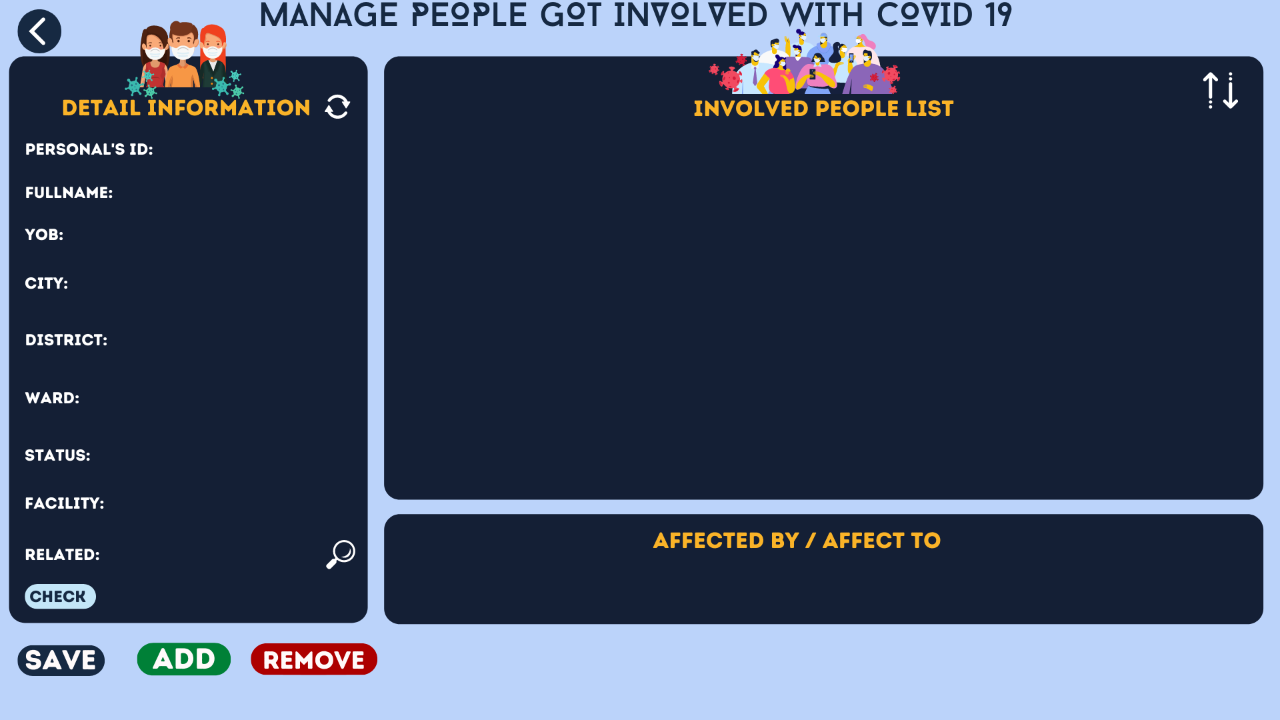
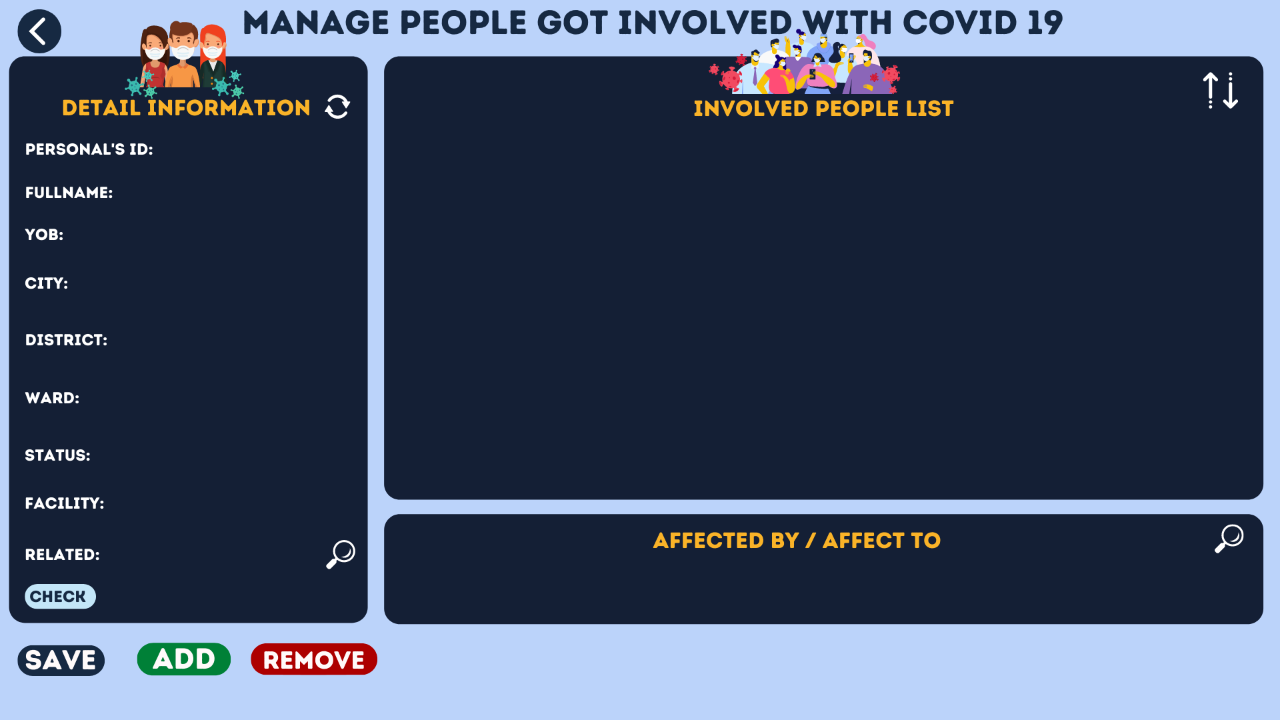
Update Search Involved
Update background for CovidInvolved + + update CovidHistory , TreatmentHistory

Changed region(s): [[0.1875, 0.0, 0.8438, 0.0611], [0.9375, 0.7333, 0.9688, 0.7639]]

diff --git a/JavaCovid19App/src/javacovid19app/Manager/ManagerHomePage/ManagerCovid19InvolvedPeople.java b/JavaCovid19App/src/javacovid19app/Manager/ManagerHomePage/ManagerCovid19InvolvedPeople.java
@@ -281,6 +281,7 @@ public class ManagerCovid19InvolvedPeople extends javax.swing.JFrame {
         BtnSave = new javax.swing.JLabel();
         BtnCheck = new javax.swing.JLabel();
         BtnRemove = new javax.swing.JLabel();
+        BtnSearchInvolved = new javax.swing.JLabel();
         jLabel1 = new javax.swing.JLabel();
 
         setDefaultCloseOperation(javax.swing.WindowConstants.EXIT_ON_CLOSE);
@@ -488,6 +489,14 @@ public class ManagerCovid19InvolvedPeople extends javax.swing.JFrame {
             }
         });
         getContentPane().add(BtnRemove, new org.netbeans.lib.awtextra.AbsoluteConstraints(250, 640, 130, 40));
+
+        BtnSearchInvolved.setText(" ");
+        BtnSearchInvolved.addMouseListener(new java.awt.event.MouseAdapter() {
+            public void mouseClicked(java.awt.event.MouseEvent evt) {
+                BtnSearchInvolvedMouseClicked(evt);
+            }
+        });
+        getContentPane().add(BtnSearchInvolved, new org.netbeans.lib.awtextra.AbsoluteConstraints(1210, 520, 40, 40));
 
         jLabel1.setIcon(new javax.swing.ImageIcon(getClass().getResource("/javacovid19app/Manager/ManagerHomePage/ManagerCovidInvolvedBackground.png"))); // NOI18N
         getContentPane().add(jLabel1, new org.netbeans.lib.awtextra.AbsoluteConstraints(0, 0, 1280, 720));
@@ -1145,6 +1154,23 @@ public class ManagerCovid19InvolvedPeople extends javax.swing.JFrame {
                     updateCurrentStatus(changeID, changeStatus);
                     editAffectTo(changeID, changeStatus); // similarly to F2 -> F1
                     updateF3toF2();
+                    try {
+                        Class.forName("com.mysql.jdbc.Driver");
+                        Connection connect = DriverManager.getConnection("jdbc:mysql://sql6.freemysqlhosting.net:3306/sql6448649?useSSL = false", "sql6448649", "ygTCgTJZu6");
+                        Statement state = connect.createStatement();
+                        
+                        //insert to covid history
+                        SimpleDateFormat formatter = new SimpleDateFormat("yyyy-MM-dd");
+                        Date date = new Date();
+                        String arriveTime = formatter.format(date).toString();
+                        String newCovidHistory = " insert into CovidHistory  (UserID, BeginTime, Status, InvolvedPerson)"
+                                    + " values ('"+changeID+"', '"+arriveTime+"', '"+changeStatus+"', '"+changeInvolved+"' )";
+                        state.execute(newCovidHistory);
+                        connect.close();
+                        
+                    }catch(Exception e){
+                         System.out.println(e.getMessage());
+                    }
                 }
             }
             
@@ -1180,6 +1206,20 @@ public class ManagerCovid19InvolvedPeople extends javax.swing.JFrame {
                         String oldTreatment = "Update TreatmentFacility set PresentQuantity = '"+oldQuantity+"' where FacilityID = '"+oldTreamentPlace+"'";
                         state.executeUpdate(oldTreatment);
                         
+                        SimpleDateFormat formatter = new SimpleDateFormat("yyyy-MM-dd HH:mm:ss");
+                        Date date = new Date();
+                        String arriveTime = formatter.format(date).toString();
+                        
+                        String leaveTime = "Update TreatmentHistory set LeaveTime = '"+arriveTime+"' where UserID = '"+changeID+"' and LeaveTime is null";
+                        state.executeUpdate(leaveTime);
+                        
+                        String treatmentHis = " insert into TreatmentHistory  (UserID, ArriveTime, FacilityID)"
+                                        + " values ('"+changeID+"', '"+arriveTime+"', '"+newTreat.getID()+"')";
+                        state.execute(treatmentHis);
+                        
+                        
+                
+                        connect.close();
                     }catch(Exception e){
                          System.out.println(e.getMessage());
                     }
@@ -1295,6 +1335,7 @@ public class ManagerCovid19InvolvedPeople extends javax.swing.JFrame {
                 state.executeUpdate(sql_recover);
 
                 connect.close();
+                
             }catch(Exception e){
             System.out.println(e.getMessage());
             }
@@ -1302,6 +1343,41 @@ public class ManagerCovid19InvolvedPeople extends javax.swing.JFrame {
         }
         refreshJTable();
     }//GEN-LAST:event_BtnRemoveMouseClicked
+
+    private void BtnSearchInvolvedMouseClicked(java.awt.event.MouseEvent evt) {//GEN-FIRST:event_BtnSearchInvolvedMouseClicked
+        // TODO add your handling code here:
+        
+        String info  = RelatedComboBox.getSelectedItem().toString();
+        if (info.compareTo("-----------------") == 0){
+            JOptionPane.showMessageDialog(this, "invalid Information!");
+            return;
+        }
+        String tmp [] = info.split(" - ");
+        
+        String ID = new String (tmp[0]);
+        
+        if (ID.isEmpty()){
+            JOptionPane.showMessageDialog(this, "Please provide information!");
+            return;
+        }
+        int index = -1;
+        for (int i = 0; i < this.managedUserList.size(); i++){
+            if (this.managedUserList.get(i).getID().compareTo(ID) == 0){
+                index = i;
+                break;
+            }
+        }
+        
+        if (index == -1){
+            JOptionPane.showMessageDialog(this, "Not found!");
+            return;
+        }
+        else{
+            JOptionPane.showMessageDialog(this, "Found!");
+            jTable_Display_User.setRowSelectionInterval(index, index);
+            return;
+        }
+    }//GEN-LAST:event_BtnSearchInvolvedMouseClicked
 
     /**
      * @param args the command line arguments
@@ -1345,6 +1421,7 @@ public class ManagerCovid19InvolvedPeople extends javax.swing.JFrame {
     private javax.swing.JLabel BtnRefreshDetail;
     private javax.swing.JLabel BtnRemove;
     private javax.swing.JLabel BtnSave;
+    private javax.swing.JLabel BtnSearchInvolved;
     private javax.swing.JLabel BtnSearchRelated;
     private javax.swing.JLabel BtnSortList;
     private CustomComboBox.ComboBox CityComboBox;

diff --git a/JavaCovid19App/src/javacovid19app/Manager/ManagerHomePage/ManagerHomePage.java b/JavaCovid19App/src/javacovid19app/Manager/ManagerHomePage/ManagerHomePage.java
@@ -326,7 +326,7 @@ public class ManagerHomePage extends javax.swing.JFrame {
                 PolarFStatusChartMouseClicked(evt);
             }
         });
-        getContentPane().add(PolarFStatusChart, new org.netbeans.lib.awtextra.AbsoluteConstraints(300, 70, 290, 270));
+        getContentPane().add(PolarFStatusChart, new org.netbeans.lib.awtextra.AbsoluteConstraints(290, 80, 290, 270));
 
         barChartCity.setOpaque(false);
         barChartCity.addMouseListener(new java.awt.event.MouseAdapter() {
